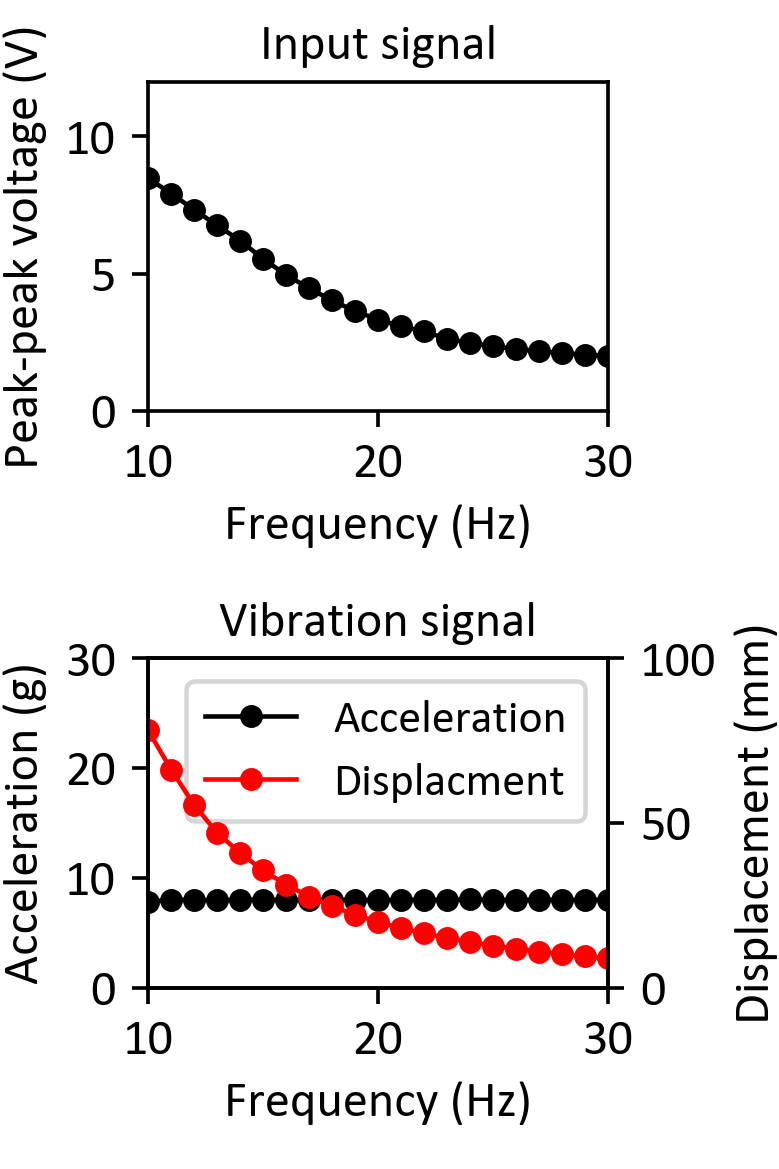
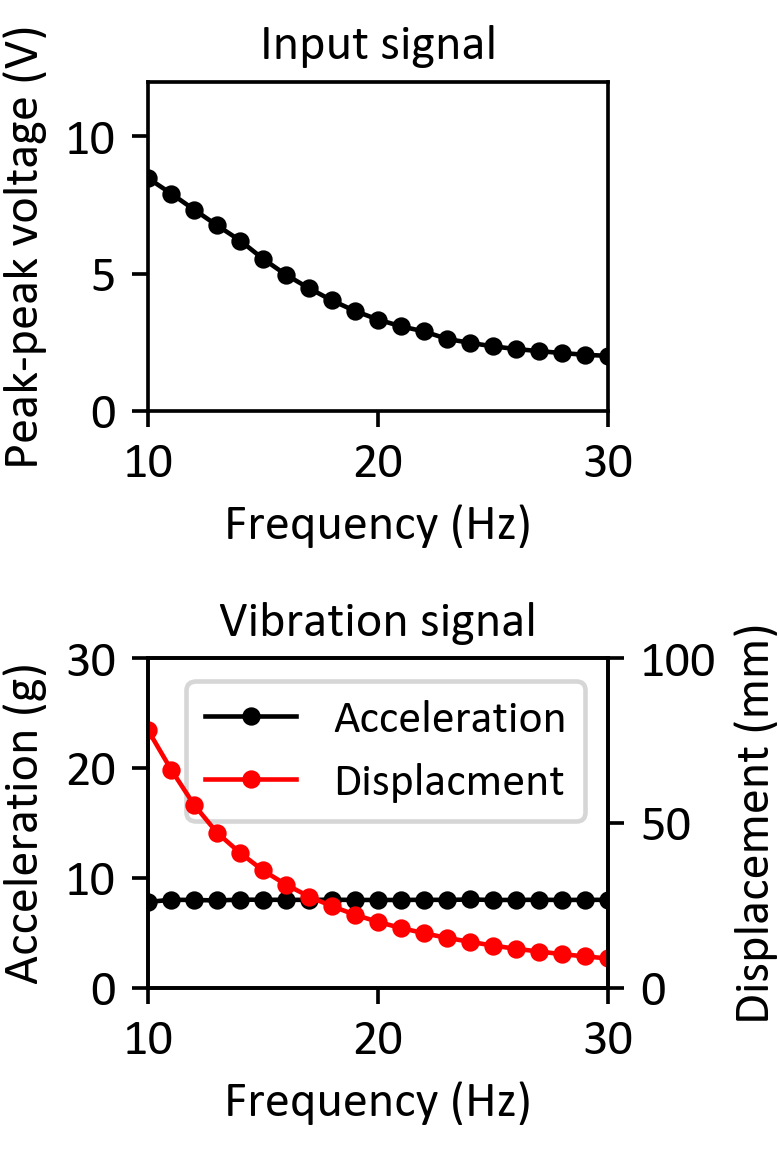
ranger!

diff --git a/JournalPaper/Figure3_Vibrationsignalmeasurement.py b/JournalPaper/Figure3_Vibrationsignalmeasurement.py
@@ -54,7 +54,7 @@ def switch_osfolder():
 
 switch_osfolder()
 
-plt.rcParams['font.size'] = 11
+plt.rcParams['font.size'] = 10
 plt.rcParams['font.sans-serif'] = "calibri"
 plt.rcParams['font.family'] = "sans-serif"
 
@@ -85,7 +85,7 @@ def read_shakerinputsignal(foldername, fig=None):
     plt.subplots_adjust(left=0.19, bottom=0.13, right=0.78, top=0.93, wspace=0.2, hspace=0.75)
     plt.subplots_adjust(bottom=0.155)
 
-    ms = 4
+    ms = 3
     ax[0].plot(x0, y1, lw='1', label="ff", marker='o', color='k', markersize=ms)
     ax[0].set_xlabel('Frequency (Hz)')
     ax[0].set_ylabel('Peak-peak voltage (V)')

diff --git a/JournalPaper/Figure6_input_SOP_dependence.py b/JournalPaper/Figure6_input_SOP_dependence.py
@@ -142,7 +142,6 @@ def basistonormal(S):
     S.from_matrix(Sp)
     return S
 
-
 def PS3(shot):
     '''
     plot Poincare Sphere, ver. 20/03/2020
@@ -293,7 +292,7 @@ if __name__ =='__main__':
     brg = matplotlib_to_plotly(pl.cm.brg, len(file_list))
     hsv = matplotlib_to_plotly(pl.cm.hsv, len(file_list))
     print(brg)
-    for nn in range(len(file_list)):
+    for nn in range(int(len(file_list))):
 
         fn2 = path_dir + "//" + file_list[nn]
 
